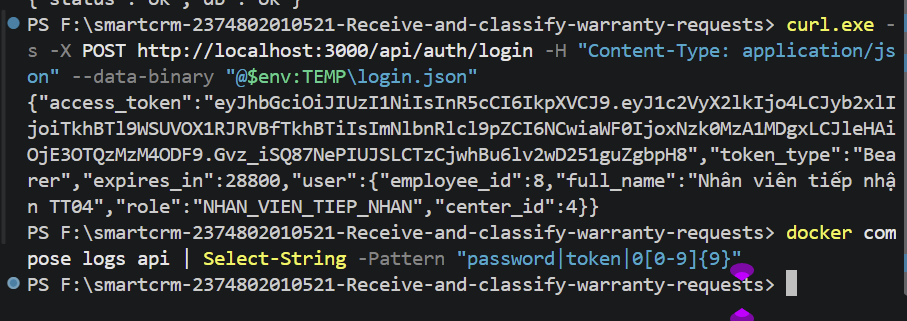
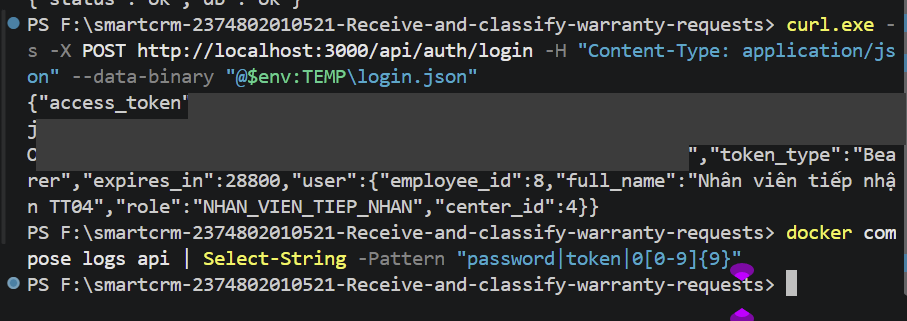
docs: ghi chu route cu, che token trong sec-6

Changed region(s): [[0.0309, 0.2804, 1.0, 0.5296]]

diff --git a/docs/api-docs/README.md b/docs/api-docs/README.md
@@ -42,6 +42,9 @@ English version of `docs/api-contract.md` (18 endpoints). Each endpoint has seve
 | 17 | `GET /api/tickets/{id}` | Read a ticket with its status log (US6, US7). |
 | 18 | `PATCH /api/tickets/{id}/status` | Move a ticket to another status (US7). |
 
+Two more routes exist only for earlier sessions and are not part of the API: `GET /` returns the text `Hello Smart CRM`, and `GET /db-check` is the old name of `GET /health` (TD-07). Counting the routes in the code gives these 18 plus the two.
+
+
 ## Endpoints
 
 ### 1. `GET /health`
